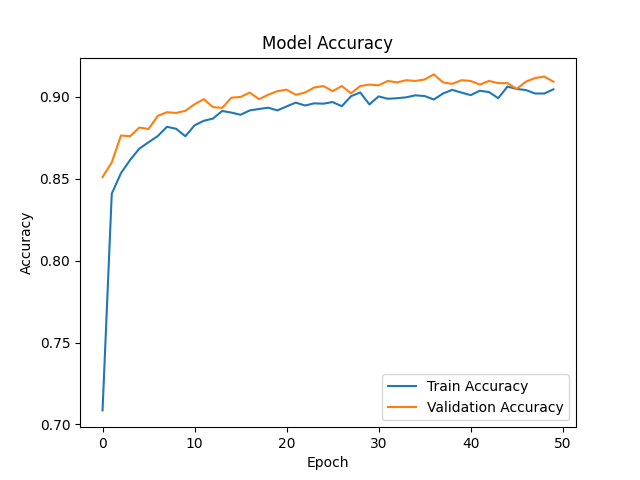
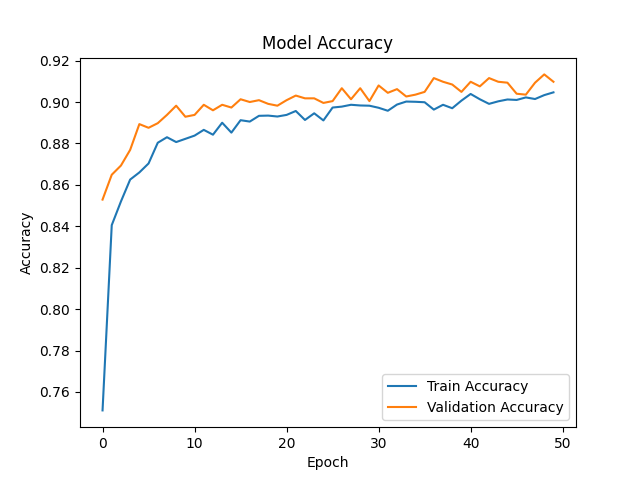
Sleep model evaluation

diff --git a/Training models/Sleep Apnea Study/evaluate_sleepapnea_model.py b/Training models/Sleep Apnea Study/evaluate_sleepapnea_model.py
@@ -1,0 +1,33 @@
+import numpy as np
+from tensorflow.keras.models import load_model
+from sklearn.preprocessing import LabelEncoder
+
+# 1. Load the model
+model = load_model('sleep_disorder_model.h5')
+
+# 2. Preprocess the input data
+# Example data: Gender: Female, Age: 40, Sleep Duration: 6.5, BMI Category: Normal, Heart Rate: 80
+
+# Encode 'Gender': Assuming 'Male' = 0, 'Female' = 1
+gender_encoder = LabelEncoder()
+gender_encoder.fit(['Male', 'Female'])
+gender = gender_encoder.transform(['Male'])[0]
+
+# Encode 'BMI Category': Assuming 'Normal' = 0, 'Normal Weight' = 1, 'Overweight' = 2
+bmi_category_encoder = LabelEncoder()
+bmi_category_encoder.fit(['Normal', 'Normal Weight', 'Overweight'])
+bmi_category = bmi_category_encoder.transform(['Normal'])[0]
+
+# Create the input array
+data = np.array([[gender, 30, 6.5, bmi_category, 70]])
+
+# 3. Make a prediction
+prediction = model.predict(data)
+
+# Convert the prediction to a readable format, assuming model outputs probabilities
+predicted_class = np.argmax(prediction, axis=1)
+
+# 4. Print the predicted sleep disorder category
+# Assuming the sleep disorder categories are encoded as: 'Healthy' = 0, 'Sleep Apnea' = 1, 'Insomnia' = 2
+sleep_disorder_classes = ['Healthy', 'Sleep Apnea', 'Insomnia']
+print("Predicted Sleep Disorder:", sleep_disorder_classes[predicted_class[0]])

diff --git a/Training models/Sleep Apnea Study/sleep_apnea_model_train.py b/Training models/Sleep Apnea Study/sleep_apnea_model_train.py
@@ -3,9 +3,10 @@ import numpy as np
 import tensorflow as tf
 from sklearn.model_selection import train_test_split
 from sklearn.preprocessing import LabelEncoder, StandardScaler
+from sklearn.metrics import confusion_matrix, classification_report
+import matplotlib.pyplot as plt
 from tensorflow.keras.models import Sequential
 from tensorflow.keras.layers import Dense, Dropout
-import matplotlib.pyplot as plt
 
 # Load dataset
 data = pd.read_csv('Sleep_data_new.csv')
@@ -62,6 +63,20 @@ plt.xlabel('Epoch')
 plt.legend(loc='lower right')
 plt.savefig('accuracy_graph.png')  # Save accuracy graph
 plt.show()
+
+# Predictions
+y_pred = model.predict(X_test)
+y_pred_classes = np.argmax(y_pred, axis=1)
+
+# Confusion Matrix
+conf_matrix = confusion_matrix(y_test, y_pred_classes)
+print("\nConfusion Matrix:")
+print(conf_matrix)
+
+# Classification Report
+class_report = classification_report(y_test, y_pred_classes)
+print("\nClassification Report:")
+print(class_report)
 
 # Save the model
 model.save('sleep_disorder_model.h5')
